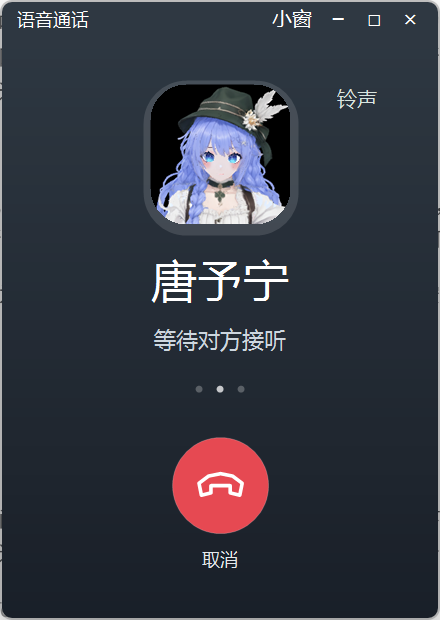
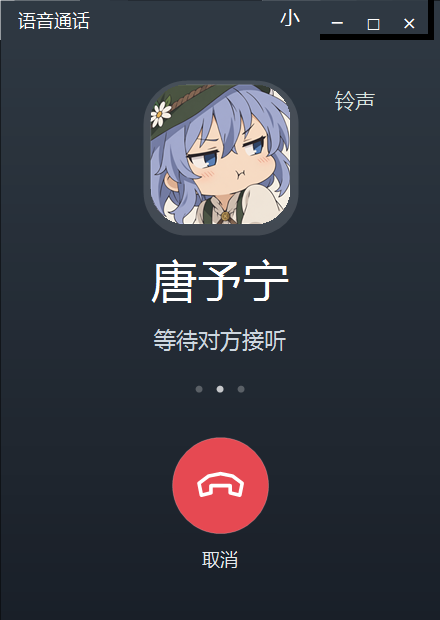
docs: publish Alpine 16 speech motion and call fixes for 0.1.17

Changed region(s): [[0.0, 0.0, 1.0, 1.0], [0.325, 0.1226, 0.6795, 0.3677], [0.7682, 0.1226, 0.8568, 0.1839]]

diff --git a/docs/i18n/README.en.md b/docs/i18n/README.en.md
@@ -10,7 +10,10 @@
 
 A companion that lives on your Windows desktop. Talk about your day through text or voice, with chat history and memory stored on your own computer.
 
-## 0.1.16 · Clearer chat, more natural calls
+## 0.1.17 · Alpine 16 speech motion and call fixes
+
+- **Speech motion for Alpine 16**: rebinds the current skeleton and palms, preserves seated legs, smooths sudden changes and blends back from the actual pose.
+- **A response after refusal**: voice and video wait for a variable ringing period. Local relationship refusals leave a short, silent text explanation. Fixed the white background on upper-right call controls.
 
 - **Text, stickers and images**: consistent outline controls; sending clears the composer immediately. Completed replies appear together. Change either avatar and adjust text size in chat settings.
 - **A dedicated call screen**: avatar, ringing, duration and hang-up controls. Acceptance and refusal have variable waiting times; cancellation cannot become a late connection. Push-to-talk remains available.
@@ -26,7 +29,7 @@ The base resource version is unchanged; verified existing resources are reused. 
 
 <sub>Actual Windows UI. Chat text is a test fixture, not a private user conversation.</sub>
 
-The bundled default is now **Alpine 16 Daisy**; the previous Model 2 file is retained for fallback. The heavy audio-driven motion component is still bound to Model 2, so Alpine 16 skips that download. Basic text, voice, expressions and idle behavior do not require it. Full microphone calls and video media were not revalidated in this release.
+The default is **Alpine 16 Daisy**, with Model 2 retained for fallback. Optional audio-driven motion now supports this exact Alpine 16 build; basic chat works independently. Cold model loading took about 46 seconds on the test PC, with the worker reused afterward; other devices may differ. Actual audio playback, standing/seated motion and refusal flows were checked. Full human-microphone calls and video media were not revalidated.
 
 <a name="companion"></a>
 
@@ -58,7 +61,7 @@ Cloud services handle conversation and speech synthesis; your PC handles recogni
 | Speech recognition | **SenseVoiceSmall INT8 · sherpa-onnx · Silero VAD** | Local speech recognition and voice activity detection |
 | Speech synthesis | **Qwen TTS API** | Cloud speech synthesis; local voice models are optional |
 | Memory | **SQLite · Qwen3 Embedding 0.6B** | Chat/state storage and local semantic history retrieval |
-| Speech motion | **StreamTalk · WavLM · Fixed Body (Model 2)** | Optional audio-driven motion and avatar rig adaptation |
+| Speech motion | **StreamTalk · WavLM · Fixed Body → Alpine 16** | Optional audio-driven motion and avatar rig adaptation |
 | Distribution | **Velopack · GitHub Releases · SHA-256** | Installation, resumable resources, integrity checks and version distribution |
 
 <details>

diff --git a/docs/CHANGELOG.md b/docs/CHANGELOG.md
@@ -1,5 +1,31 @@
 # 更新记录 / Release history
 
+## 0.1.17 · 2026-10-17
+
+[下载与完整版本资产](https://github.com/ycwdjb599-hub/ai-companion-desktop/releases/tag/v0.1.17)
+
+- 可选语音驱动动作已适配当前 Alpine 16：使用实机导出的骨架与手掌绑定，保留坐姿腿部和单一姿态写入；减少瞬间突变，收尾至少 2.2 秒。
+- 语音和视频拒接前等待一段不固定的时间。本地关系规则拒接后留下简短、静音的文字解释；取消不会产生迟到的拒接解释。
+- 修复通话右上角按钮按下时出现的白色背景。
+- 保留现有聊天模型、关系、聊天和设置。公共包不包含开发者聊天、记忆、API 凭据或受限本地动画。
+
+### 实际验证与使用说明
+
+16 号实际渲染器完成站姿、坐姿、取消和收尾检查；实际 Windows 音频输出驱动连续两次回复。测试机 RTX 5070 Ti Laptop 上渲染约 30 FPS，2 秒音频窗口的动作推理约 103–120 ms。首次动作模型冷加载约 46 秒，后续复用进程；这不是所有设备的性能保证。
+
+实际候选语音／视频拒接等待分别约 9.3／6.6 秒，之后显示解释并回到聊天。未重跑真人麦克风完整通话、完整视频媒体、所有设备和长时间压力测试；动作观感仍可继续反馈。
+
+新安装默认 16 号；旧 Model 2 文件保留回退。基础资源版本不变，16 号动作组件使用独立目录，可能仍需首次下载较大的本地运行资源。也可以先使用基础聊天、声音与口型。
+
+更新前退出旧版，运行安装程序并保留原资料／资源位置。旧版 Releases 保留；回退程序不要删除或回滚私人聊天资料。安装包仍未做商业代码签名，请核对 SHA256SUMS.txt。
+
+### English
+
+Optional audio-driven motion now supports the bundled Alpine 16, with target-specific skeleton/palm binding, seated-leg preservation, bounded rotation changes and a smooth return of at least 2.2 seconds. Voice/video refusals wait before ending and local relationship gates leave a short silent explanation. Fixed the upper-right call-control white background.
+
+Verified with the actual renderer and two consecutive prerecorded synthetic-audio replies. On the test RTX 5070 Ti Laptop: about 30 FPS, 103–120 ms motion inference per 2-second audio window, and about 46 seconds for the first cold worker load. Full human-microphone calls, complete video media and long-duration soak tests were not repeated. No main chat model change, private data, credentials or restricted local animation bundles are included.
+
+
 ## 0.1.16 · 2026-10-17
 
 [下载 Windows 安装程序](https://github.com/ycwdjb599-hub/ai-companion-desktop/releases/download/v0.1.16/AICompanionTrial-win-Setup.exe) · [完整版本资产](https://github.com/ycwdjb599-hub/ai-companion-desktop/releases/tag/v0.1.16)

diff --git a/README.md b/README.md
@@ -10,7 +10,10 @@
 
 一个生活在 Windows 桌面上的 AI 小伙伴。她可以陪你聊今天、听你说话，也会把聊天记录与记忆留在你的电脑里。
 
-## 0.1.16 · 聊天更清楚，联系更自然
+## 0.1.17 · 16 号说话动作与通话体验
+
+- **16 号说话动作**：为当前人物重新适配骨架与手掌方向，保留坐姿腿部；减少突变，结束后从实际姿态平滑收回。
+- **拒接有回应**：语音、视频都先等待一段不固定的时间；本地关系规则拒接后会留下简短文字解释。修复通话右上角按钮的白色背景。
 
 - **打字、表情与图片**：统一线条工具栏，发送后立即清空输入框；回复确认完整后一次显示。可更换双方头像，在聊天设置调整聊天字号。
 - **语音通话**：独立通话窗口显示头像、等待接听、计时和挂断。接听或拒接前会有一段长短不同的等待；取消后不会迟到接通。按住说话仍可直接使用。
@@ -26,7 +29,9 @@
 
 <sub>真实 Windows 界面；聊天内容为测试示例，不是用户私人对话。</sub>
 
-默认外观现为 **16 号阿尔卑斯雏菊裙装**，保留旧 Model 2 文件用于回退。现有重型语音驱动动作组件仍绑定 Model 2；16 号会跳过该下载，基础文字、语音、表情和待机不依赖它。视频媒体与完整麦克风通话本轮未重新验证。
+默认外观为 **16 号阿尔卑斯雏菊裙装**，保留旧 Model 2 文件用于回退。可选语音驱动动作现已适配此版本的 16 号，基础聊天仍可独立使用。首次模型冷加载在测试机上约 46 秒，随后复用进程；不同设备会有差异。本轮验证了实际音频播放、站姿／坐姿动作和拒接流程，未重跑真人麦克风完整通话与完整视频媒体。
+
+<p align="center"><a href="assets/alpine16-speaking.png"><img src="assets/alpine16-speaking.png" alt="16 号实际语音驱动动作检查" width="300"></a><br><sub>实际渲染器截图 · 匿名测试音频驱动</sub></p>
 
 <a name="companion"></a>
 
@@ -58,7 +63,7 @@
 | 语音识别 | **SenseVoiceSmall INT8 · sherpa-onnx · Silero VAD** | 本地语音识别与说话检测 |
 | 声音生成 | **Qwen TTS API** | 云端配音；本地声音模型为可选项 |
 | 本地记忆 | **SQLite · Qwen3 Embedding 0.6B** | 聊天与状态保存、本地历史语义检索 |
-| 说话动作 | **StreamTalk · WavLM · Fixed Body (Model 2)** | 可选的语音驱动动作与人物骨架适配 |
+| 说话动作 | **StreamTalk · WavLM · Fixed Body → Alpine 16** | 可选的语音驱动动作与人物骨架适配 |
 | 安装分发 | **Velopack · GitHub Releases · SHA-256** | 安装、资源续传、完整性校验与版本分发 |
 
 <details>

diff --git a/docs/i18n/README.zh-TW.md b/docs/i18n/README.zh-TW.md
@@ -10,7 +10,10 @@
 
 一個住在 Windows 桌面上的 AI 夥伴。陪你聊聊今天、聽你說話，聊天紀錄與記憶留在你的電腦裡。
 
-## 0.1.16 · 聊天更清楚，聯繫更自然
+## 0.1.17 · 16 號說話動作與通話體驗
+
+- **16 號說話動作**：重新適配目前人物的骨架與手掌方向，保留坐姿腿部；減少突變，從實際姿態平滑收回。
+- **拒接有回應**：語音與視訊先等待一段長短不同的時間；本機關係規則拒接後留下簡短文字說明。修復通話右上角按鈕的白色背景。
 
 - **文字、表情與圖片**：統一線條工具列，傳送後立即清空輸入框；回覆確認完整後一次顯示。可更換雙方頭像，在聊天設定調整聊天字型大小。
 - **獨立通話畫面**：顯示頭像、等待接聽、通話時間與掛斷。接聽或拒接前有長短不同的等待；取消後不會延遲接通。按住說話仍可直接使用。
@@ -26,7 +29,7 @@
 
 <sub>真實 Windows 介面；聊天文字為測試範例，不是使用者的私人對話。</sub>
 
-預設外觀改為 **16 號阿爾卑斯雛菊裙裝**，保留舊 Model 2 檔案以供回復。重型語音驅動動作仍綁定 Model 2；16 號會略過該下載，基本文字、語音、表情與待機不依賴它。本次未重新驗證完整麥克風通話與視訊媒體。
+預設外觀為 **16 號阿爾卑斯雛菊裙裝**，保留舊 Model 2 供回復。選用語音驅動動作現已適配此版本的 16 號，基本聊天仍可獨立使用。測試機首次模型冷載入約 46 秒，之後重用程序；不同設備可能不同。本次檢查實際音訊播放、站姿／坐姿動作與拒接流程，未重新驗證真人麥克風完整通話及完整視訊媒體。
 
 <a name="companion"></a>
 
@@ -58,7 +61,7 @@
 | 語音辨識 | **SenseVoiceSmall INT8 · sherpa-onnx · Silero VAD** | 本機語音辨識與說話偵測 |
 | 聲音生成 | **Qwen TTS API** | 雲端配音；本機聲音模型為選用項目 |
 | 本機記憶 | **SQLite · Qwen3 Embedding 0.6B** | 聊天與狀態保存、本機歷史語義檢索 |
-| 說話動作 | **StreamTalk · WavLM · Fixed Body (Model 2)** | 選用的語音驅動動作與角色骨架適配 |
+| 說話動作 | **StreamTalk · WavLM · Fixed Body → Alpine 16** | 選用的語音驅動動作與角色骨架適配 |
 | 安裝分發 | **Velopack · GitHub Releases · SHA-256** | 安裝、資源續傳、完整性檢查與版本分發 |
 
 <details>

diff --git a/docs/INSTALL.md b/docs/INSTALL.md
@@ -39,8 +39,8 @@ To update, exit the app and run the new installer while retaining the existing d
 
 The app UI is currently Simplified Chinese. Windows x64 is supported; GPU features require a compatible NVIDIA GPU/driver. If you report a problem, include the app version and a redacted screenshot, not your API key or private chat database.
 
-## 0.1.16 人物与动作
+## 0.1.17 人物与动作
 
 新安装使用 16 号，模型与布料配置一同保存在所选资源盘。已有安装沿用此前保存的人物。旧 Model 2 的回退文件保留在安装包 `assets/fallback/Model2.vrm`。
 
-大型语音驱动动作目前只适配 Model 2。看到 16 号的“不支持，无需下载”提示后，可点击「先开始使用 · 动作稍后补齐」进入基础聊天；这不影响文字、声音或口型。不要反复下载旧组件来尝试修复人物绑定。
+16 号可在「人物与动作 → 管理动作资源」准备可选语音驱动动作。新版按当前人物的文件指纹校验，使用独立的 `speaking-actions-alpine16-v1` 目录；旧 Model 2 组件不会冒充兼容组件。基础资源版本不变，但首次准备 16 号动作仍可能下载较大的动作运行资源。初次加载模型会有等待，之后复用进程。也可先使用基础聊天、声音和口型。
